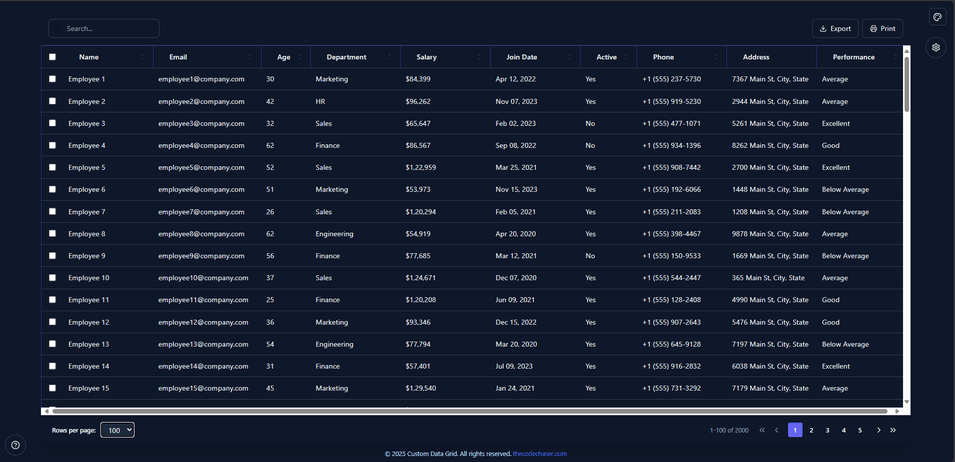
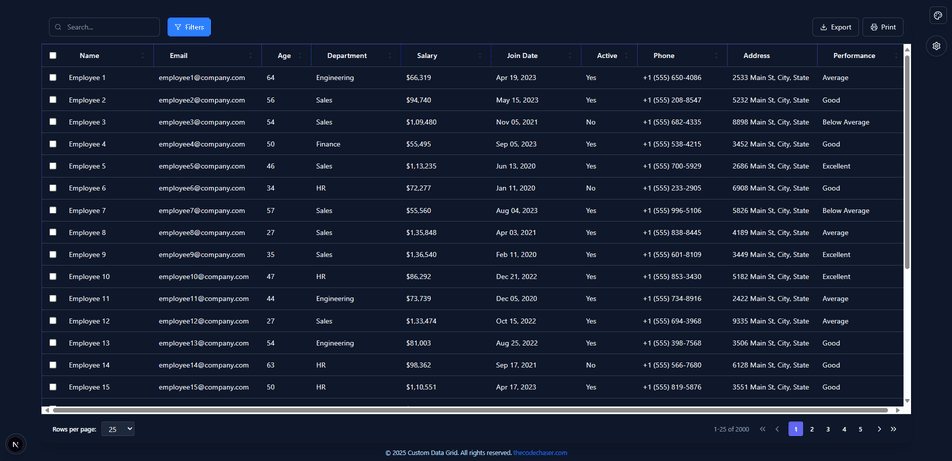
Fix few filters issues

diff --git a/components/DataGrid/FilterPanel.tsx b/components/DataGrid/FilterPanel.tsx
@@ -303,7 +303,7 @@ export const FilterPanel: React.FC<FilterPanelProps> = ({
                             value={filter.column}
                             onChange={(e) => {
                               const selectedColumn = columns.find(
-                                (col) => col.id === e.target.value
+                                (col) => col.field === e.target.value
                               );
                               handleUpdateFilter(filter.id, {
                                 column: selectedColumn?.field || '',
@@ -320,7 +320,7 @@ export const FilterPanel: React.FC<FilterPanelProps> = ({
                             }`}
                           >
                             {columns.map((column) => (
-                              <option key={column.id} value={column.id}>
+                              <option key={column.id} value={column.field}>
                                 {column.title}
                               </option>
                             ))}

diff --git a/store/gridStore.ts b/store/gridStore.ts
@@ -161,6 +161,7 @@ export const useGridStore = create<GridStore>()(
       },
 
       addFilter: (filter) => {
+        console.log(filter)
         const filters = get().filters.filter((f) => f.id !== filter.id);
         filters.push(filter);
         set({ filters, currentPage: 1 });
@@ -174,8 +175,6 @@ export const useGridStore = create<GridStore>()(
       },
 
       updateFilter: (updateId, updatedFilter) => {
-        console.log(get().filters);
-        console.log(updatedFilter);
         const filters = get().filters.map((f) =>
           f.id === updateId ? { ...f, ...updatedFilter } : f
         );
